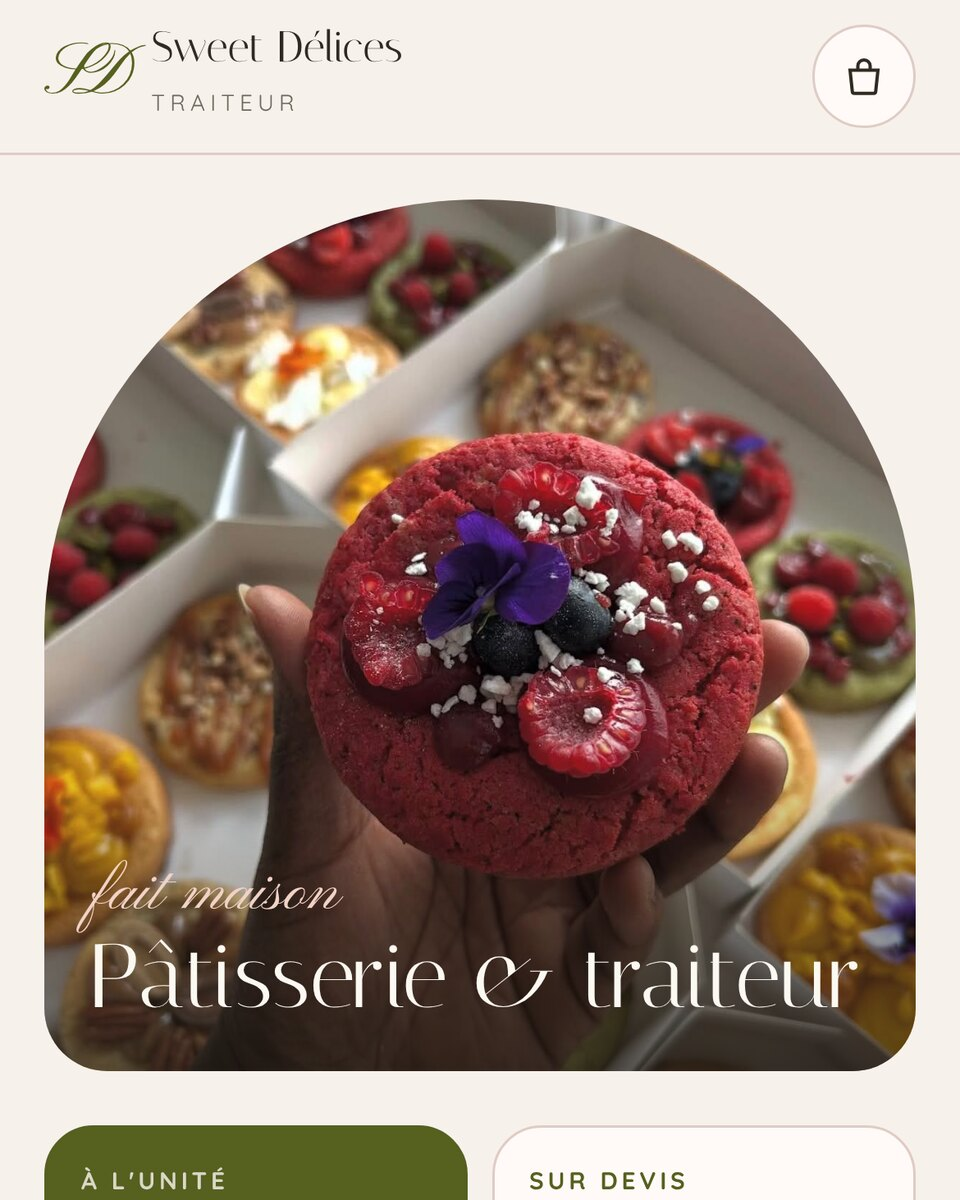
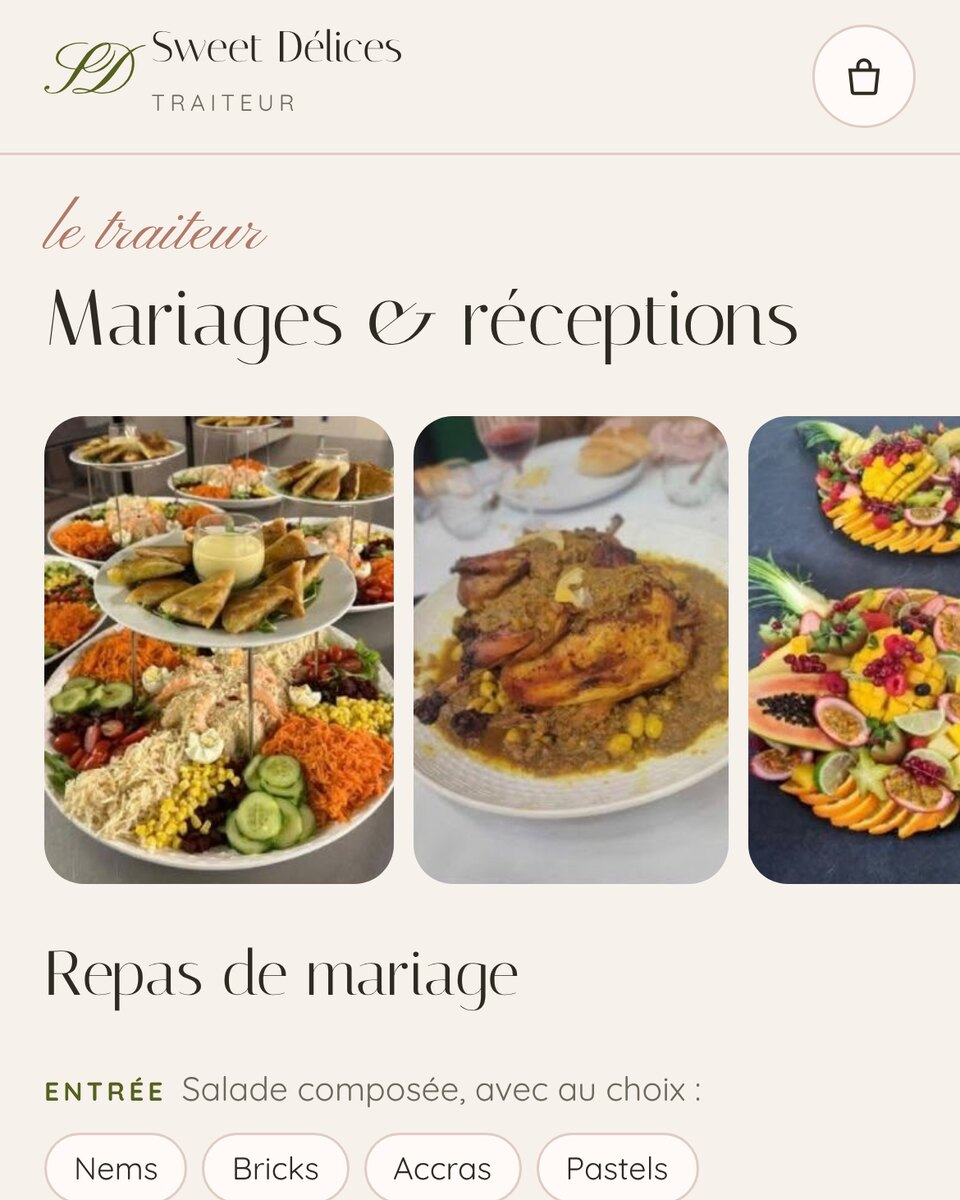
Accueil : vague violette animée, héro plus serré, fond moins noir ; plus de captures en double
Héro : ruban de lignes violettes (couleur du point du logo) qui ondule et suit
légèrement la souris, moins d'espace vide en haut, titre sur deux lignes.
Fond passé de #0B0B0D à #131218.
Créations : la couverture montre l'accueil, les captures dessous montrent
la carte et le traiteur (ordinateur et téléphone).

Claude-Session: https://claude.ai/code/session_01HvcWTfZvmjH3SUs2EVPUhm

diff --git a/assets/home.js b/assets/home.js
@@ -80,4 +80,65 @@
       });
     });
   }
+
+  /* ---------- Vague violette du héro (couleur du point du logo) ---------- */
+  var cv = document.querySelector('.h5-wave');
+  if (cv && cv.getContext) {
+    var ctx = cv.getContext('2d'), W = 0, H = 0, dpr = 1, T = 0, last = 0, run = false;
+    var still = matchMedia('(prefers-reduced-motion: reduce)').matches;
+    var my = 0, ty = 0, mx = .5, tx = .5;
+    var N = 42;
+    function size() {
+      dpr = Math.min(window.devicePixelRatio || 1, 2);
+      W = cv.clientWidth; H = cv.clientHeight;
+      cv.width = Math.round(W * dpr); cv.height = Math.round(H * dpr);
+      ctx.setTransform(dpr, 0, 0, dpr, 0, 0);
+    }
+    function draw() {
+      ctx.clearRect(0, 0, W, H);
+      var phone = W < 760;
+      // halo qui se déplace sous la vague
+      var gx = W * (.62 + Math.sin(T * .00021) * .16 + (mx - .5) * .08), gy = H * (.36 + Math.cos(T * .00017) * .08);
+      var g = ctx.createRadialGradient(gx, gy, 0, gx, gy, Math.max(W, H) * .42);
+      g.addColorStop(0, 'rgba(124,92,255,.20)'); g.addColorStop(.5, 'rgba(124,92,255,.06)'); g.addColorStop(1, 'rgba(124,92,255,0)');
+      ctx.fillStyle = g; ctx.fillRect(0, 0, W, H);
+      // ruban de lignes
+      var amp = H * (phone ? .07 : .09), step = phone ? 8 : 10;
+      var lg = ctx.createLinearGradient(0, 0, W, 0);
+      lg.addColorStop(0, 'rgba(185,168,255,0)'); lg.addColorStop(.25, 'rgba(185,168,255,1)');
+      lg.addColorStop(.7, 'rgba(150,120,255,1)'); lg.addColorStop(1, 'rgba(185,168,255,0)');
+      ctx.strokeStyle = lg; ctx.lineWidth = phone ? 1 : 1.2;
+      for (var i = 0; i < N; i++) {
+        var k = i / (N - 1), c = 1 - Math.abs(k - .5) * 2;
+        ctx.globalAlpha = .1 + c * .6;
+        ctx.beginPath();
+        for (var x = -20; x <= W + 20; x += step) {
+          var u = x / W;
+          var base = H * (.16 + u * .3) + my * 40;
+          var spread = (Math.sin(u * 3.1 + T * .00035) * .55 + .7) * H * (phone ? .22 : .3);
+          var y = base
+            + Math.sin(u * 5.2 + T * .0006 + k * 1.1) * amp
+            + Math.sin(u * 2.3 - T * .00042 + k * .6) * amp * .8
+            + (k - .5) * spread;
+          if (x < 0) ctx.moveTo(x, y); else ctx.lineTo(x, y);
+        }
+        ctx.stroke();
+      }
+      ctx.globalAlpha = 1;
+    }
+    function loop(now) {
+      if (!run) return;
+      T += Math.min(now - (last || now), 50); last = now;
+      my += (ty - my) * .04; mx += (tx - mx) * .04;
+      draw(); requestAnimationFrame(loop);
+    }
+    function start() { if (run || still) return; run = true; last = 0; requestAnimationFrame(loop); }
+    size(); T = 4000; draw(); cv.classList.add('on');
+    window.addEventListener('resize', function () { size(); draw(); });
+    if (!still) {
+      window.addEventListener('pointermove', function (e) { ty = (e.clientY / innerHeight - .5); tx = e.clientX / innerWidth; }, { passive: true });
+      new IntersectionObserver(function (es) { es.forEach(function (e) { if (e.isIntersecting) start(); else run = false; }); }).observe(cv);
+      document.addEventListener('visibilitychange', function () { if (document.hidden) run = false; else start(); });
+    }
+  }
 })();

diff --git a/realisations.html b/realisations.html
@@ -3,14 +3,14 @@
 <head>
 <meta charset="utf-8">
 <meta name="viewport" content="width=device-width, initial-scale=1, viewport-fit=cover">
-<meta name="theme-color" content="#0B0B0D">
+<meta name="theme-color" content="#131218">
 <title>Créations · Mon Site Studio</title>
 <meta name="description" content="Les créations de Mon Site Studio : le site du traiteur Sweet Délices et des concepts pour chaque type de commerce.">
 <link rel="preconnect" href="https://fonts.googleapis.com">
 <link rel="preconnect" href="https://fonts.gstatic.com" crossorigin>
 <link rel="stylesheet" href="https://fonts.googleapis.com/css2?family=Anton&family=Bricolage+Grotesque:opsz,wght@12..96,500;12..96,600;12..96,700;12..96,800&family=Instrument+Serif:ital@0;1&family=JetBrains+Mono:wght@400;500&family=Manrope:wght@400;500;600&display=swap">
-<link rel="stylesheet" href="assets/style.css?v=8">
-<link rel="stylesheet" href="assets/phone.css?v=8" media="(max-width: 760px)">
+<link rel="stylesheet" href="assets/style.css?v=9">
+<link rel="stylesheet" href="assets/phone.css?v=9" media="(max-width: 760px)">
 <script>try{if(sessionStorage.getItem("ms-curtain")==="1"&&!matchMedia("(prefers-reduced-motion: reduce)").matches)document.documentElement.classList.add("arriving")}catch(e){}</script>
 </head>
 <body>
@@ -58,13 +58,13 @@
     </div>
     <div class="shots">
       <div class="browser">
-        <div class="browser-bar"><i></i><i></i><i></i><div class="url">🔒 <b>Sweet Délices · Accueil</b></div></div>
-        <img src="img/sd-ordinateur.jpg" alt="Page d’accueil du site Sweet Délices sur ordinateur" loading="lazy" width="2400" height="1500">
-      </div>
-      <div class="phone-shot"><img src="img/sd-telephone.jpg" alt="Site Sweet Délices sur téléphone" loading="lazy" width="780" height="1688"></div>
-      <div class="browser">
         <div class="browser-bar"><i></i><i></i><i></i><div class="url">🔒 <b>Sweet Délices · La carte</b></div></div>
-        <img src="img/sd-carte.jpg" alt="La carte du site Sweet Délices" loading="lazy">
+        <img src="img/sd-carte.jpg" alt="La carte du site Sweet Délices sur ordinateur" loading="lazy" width="2400" height="1500">
+      </div>
+      <div class="phone-shot"><img src="img/sd-tel-carte.jpg" alt="La carte du site Sweet Délices sur téléphone" loading="lazy" width="780" height="1688"></div>
+      <div class="browser">
+        <div class="browser-bar"><i></i><i></i><i></i><div class="url">🔒 <b>Sweet Délices · Traiteur</b></div></div>
+        <img src="img/sd-traiteur.jpg" alt="La page traiteur du site Sweet Délices" loading="lazy" width="2400" height="1500">
       </div>
     </div>
     <p class="swipe-note" aria-hidden="true">Glisse pour voir la suite →</p>
@@ -128,6 +128,6 @@
 <script src="https://cdn.jsdelivr.net/npm/gsap@3.13.0/dist/gsap.min.js"></script>
 <script src="https://cdn.jsdelivr.net/npm/gsap@3.13.0/dist/ScrollTrigger.min.js"></script>
 <script src="https://cdn.jsdelivr.net/npm/lenis@1.3.26/dist/lenis.min.js"></script>
-<script src="assets/app.js?v=8"></script>
+<script src="assets/app.js?v=9"></script>
 </body>
 </html>

diff --git a/index.html b/index.html
@@ -3,15 +3,15 @@
 <head>
 <meta charset="utf-8">
 <meta name="viewport" content="width=device-width, initial-scale=1, viewport-fit=cover">
-<meta name="theme-color" content="#0B0B0D">
+<meta name="theme-color" content="#131218">
 <title>Mon Site Studio</title>
 <meta name="description" content="Mon Site Studio crée des sites qui donnent envie pour les commerçants, artisans et indépendants. Estimation gratuite.">
 <link rel="preconnect" href="https://fonts.googleapis.com">
 <link rel="preconnect" href="https://fonts.gstatic.com" crossorigin>
 <link rel="stylesheet" href="https://fonts.googleapis.com/css2?family=Anton&family=Bricolage+Grotesque:opsz,wght@12..96,500;12..96,600;12..96,700;12..96,800&family=Instrument+Serif:ital@0;1&family=JetBrains+Mono:wght@400;500&family=Manrope:wght@400;500;600&display=swap">
-<link rel="stylesheet" href="assets/style.css?v=8">
-<link rel="stylesheet" href="assets/home.css?v=8">
-<link rel="stylesheet" href="assets/phone.css?v=8" media="(max-width: 760px)">
+<link rel="stylesheet" href="assets/style.css?v=9">
+<link rel="stylesheet" href="assets/home.css?v=9">
+<link rel="stylesheet" href="assets/phone.css?v=9" media="(max-width: 760px)">
 <script>try{if(sessionStorage.getItem("ms-curtain")==="1"&&!matchMedia("(prefers-reduced-motion: reduce)").matches)document.documentElement.classList.add("arriving")}catch(e){}</script>
 </head>
 <body>
@@ -31,6 +31,7 @@
 
 <main>
   <section class="h5 wrap" id="haut">
+    <canvas class="h5-wave" aria-hidden="true"></canvas>
     <p class="mono reveal-fade">Studio web · commerçants, artisans, indépendants</p>
     <h1 class="reveal-lines" aria-label="Des sites qui donnent envie de cliquer.">
       <span class="line"><span>Des sites qui donnent</span></span>
@@ -113,7 +114,7 @@
 <script src="https://cdn.jsdelivr.net/npm/gsap@3.13.0/dist/gsap.min.js"></script>
 <script src="https://cdn.jsdelivr.net/npm/gsap@3.13.0/dist/ScrollTrigger.min.js"></script>
 <script src="https://cdn.jsdelivr.net/npm/lenis@1.3.26/dist/lenis.min.js"></script>
-<script src="assets/app.js?v=8"></script>
-<script src="assets/home.js?v=8"></script>
+<script src="assets/app.js?v=9"></script>
+<script src="assets/home.js?v=9"></script>
 </body>
 </html>

diff --git a/devis.html b/devis.html
@@ -3,14 +3,14 @@
 <head>
 <meta charset="utf-8">
 <meta name="viewport" content="width=device-width, initial-scale=1, viewport-fit=cover">
-<meta name="theme-color" content="#0B0B0D">
+<meta name="theme-color" content="#131218">
 <title>Devis gratuit · Mon Site Studio</title>
 <meta name="description" content="Estime le prix de ton site en une minute. Gratuit et sans engagement.">
 <link rel="preconnect" href="https://fonts.googleapis.com">
 <link rel="preconnect" href="https://fonts.gstatic.com" crossorigin>
 <link rel="stylesheet" href="https://fonts.googleapis.com/css2?family=Anton&family=Bricolage+Grotesque:opsz,wght@12..96,500;12..96,600;12..96,700;12..96,800&family=Instrument+Serif:ital@0;1&family=JetBrains+Mono:wght@400;500&family=Manrope:wght@400;500;600&display=swap">
-<link rel="stylesheet" href="assets/style.css?v=8">
-<link rel="stylesheet" href="assets/phone.css?v=8" media="(max-width: 760px)">
+<link rel="stylesheet" href="assets/style.css?v=9">
+<link rel="stylesheet" href="assets/phone.css?v=9" media="(max-width: 760px)">
 <script>try{if(sessionStorage.getItem("ms-curtain")==="1"&&!matchMedia("(prefers-reduced-motion: reduce)").matches)document.documentElement.classList.add("arriving")}catch(e){}</script>
 </head>
 <body>
@@ -126,7 +126,7 @@
   </div>
 </footer>
 
-<script src="assets/tarifs.js?v=8"></script>
+<script src="assets/tarifs.js?v=9"></script>
 <script>
 (function () {
   var fmt = function (n) { return n.toLocaleString('fr-FR').replace(/ | /g, ' '); };
@@ -234,6 +234,6 @@
 <script src="https://cdn.jsdelivr.net/npm/gsap@3.13.0/dist/gsap.min.js"></script>
 <script src="https://cdn.jsdelivr.net/npm/gsap@3.13.0/dist/ScrollTrigger.min.js"></script>
 <script src="https://cdn.jsdelivr.net/npm/lenis@1.3.26/dist/lenis.min.js"></script>
-<script src="assets/app.js?v=8"></script>
+<script src="assets/app.js?v=9"></script>
 </body>
 </html>

diff --git a/assets/home.css b/assets/home.css
@@ -8,8 +8,13 @@
 @keyframes uline{0%{transform:scaleX(1);transform-origin:right}45%{transform:scaleX(0);transform-origin:right}46%{transform-origin:left}100%{transform:scaleX(1);transform-origin:left}}
 
 /* Héro */
-.h5{min-height:100svh;display:flex;flex-direction:column;justify-content:flex-end;gap:clamp(28px,4vw,56px);padding-top:140px;padding-bottom:clamp(40px,6vw,80px)}
-.h5 h1{font-size:clamp(54px,8.6vw,164px);line-height:.92;letter-spacing:-.055em}
+.h5{position:relative;display:flex;flex-direction:column;justify-content:flex-end;gap:clamp(28px,4vw,56px);padding-top:clamp(150px,20vh,230px);padding-bottom:clamp(40px,6vw,80px)}
+.h5>*:not(.h5-wave){position:relative;z-index:1}
+.h5-wave{position:absolute;z-index:0;top:0;bottom:-12%;left:50%;width:100vw;transform:translateX(-50%);pointer-events:none;opacity:0;transition:opacity 1.6s ease}
+.h5-wave.on{opacity:1}
+html{overflow-x:clip}
+@media (min-width:761px){.h5 h1 .line{white-space:nowrap}}
+.h5 h1{font-size:clamp(54px,7.4vw,142px);line-height:.92;letter-spacing:-.055em}
 .h5 h1 .serif{font-weight:400;letter-spacing:-.025em;padding-right:.04em}
 .h5-foot{display:flex;justify-content:space-between;align-items:flex-end;gap:28px;flex-wrap:wrap;padding-top:clamp(24px,3vw,40px);border-top:1px solid var(--line)}
 .h5-foot p{font-size:clamp(18px,1.5vw,22px);color:var(--muted);line-height:1.45}

diff --git a/assets/style.css b/assets/style.css
@@ -1,9 +1,9 @@
 /* Mon Site Studio — un seul univers sombre, choisi exprès (pas de thème clair).
    Layout : grandes typos pleine largeur, sections empilées, une bande horizontale épinglée pour les styles. */
 :root{
-  --bg:#0B0B0D;
-  --bg-2:#141417;
-  --bg-3:#1C1C21;
+  --bg:#131218;
+  --bg-2:#1B1A21;
+  --bg-3:#24222B;
   --fg:#EEEAE2;
   --muted:#8F8B84;
   --line:rgba(238,234,226,.12);
@@ -36,7 +36,7 @@ p{margin:0}
 
 /* ---------- En-tête ---------- */
 .nav{position:fixed;top:0;left:0;right:0;z-index:50;padding-top:env(safe-area-inset-top,0px);transition:background .4s var(--ease),border-color .4s}
-.nav.scrolled{background:rgba(11,11,13,.72);backdrop-filter:blur(14px);-webkit-backdrop-filter:blur(14px);border-bottom:1px solid var(--line)}
+.nav.scrolled{background:rgba(19,18,24,.72);backdrop-filter:blur(14px);-webkit-backdrop-filter:blur(14px);border-bottom:1px solid var(--line)}
 .nav .wrap{display:flex;align-items:center;justify-content:space-between;gap:16px;padding-block:18px}
 .logo{font-family:var(--font-display);font-weight:800;font-size:21px;letter-spacing:-.04em;white-space:nowrap}
 .logo i{font-style:normal;color:var(--accent)}
